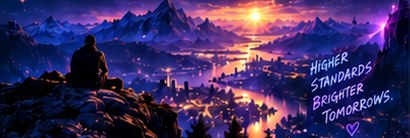
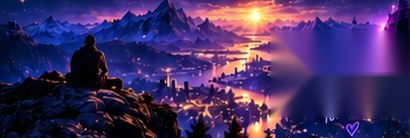
feat(site): rotating founder quotes and the founder emails the live sites already publish
- data/worlds.json: 8 quotes, all Juss's own lines (mockup, coder poster, profile README),
  paired with her handwritten notes; rotate every 7s with prev/next, pause on hover/focus,
  static under reduced motion
- contacts: founder@sekretbip.net + support@sekretbip.net (Bip app), hello@jussbeautifulhair.com
  (JBH pages; legal contact in the FCR, Bip and StoryEngine repos) for the company and the other
  worlds; FCR's review@ ingress deliberately not published
- assets: inpaint the baked note out of the quote scene; footer background is a lettering-free sky
  strip instead of the raw mockup footer (which bled fake buttons through)
- proof: quotes load from data, rotate, real email rendered

Claude-Session: https://claude.ai/code/session_01VXyVbFn32BsD1pLksuKgfY

Changed region(s): [[0.6439, 0.2029, 1.0, 0.8696]]

diff --git a/site/index.html b/site/index.html
@@ -195,6 +195,11 @@ h1,h2,h3{text-wrap:balance}
 .quote::after{content:"";position:absolute;inset:0;z-index:-1;background:linear-gradient(90deg,rgba(8,8,34,.9),rgba(8,8,34,.55) 55%,rgba(8,8,34,.75))}
 .quote blockquote{margin:0;font-family:var(--f-hand);font-weight:700;font-size:clamp(28px,2.6vw,38px);line-height:1.05;color:var(--gold-2);max-width:14ch;text-shadow:0 0 16px rgba(245,193,75,.35)}
 .quote cite{font-style:normal;font-family:var(--f-mono);font-size:10px;letter-spacing:.2em;color:var(--muted)}
+.quote.fade blockquote,.quote.fade .note{opacity:0;transform:translateY(6px)}
+.quote blockquote,.quote .note{transition:opacity .5s var(--ease),transform .5s var(--ease)}
+.qnav{position:absolute;left:16px;bottom:14px;display:flex;align-items:center;gap:10px;z-index:1}
+.qbtn{width:44px;height:44px;border-radius:50%;border:1px solid var(--line-hot);background:rgba(6,6,28,.6);color:#fff;font-size:22px;line-height:1;cursor:pointer}
+.qbtn:hover{border-color:var(--cyan)}
 .quote .note{position:static;transform:rotate(-6deg);align-self:flex-end;color:#FFB6EA;text-shadow:0 0 14px rgba(255,79,184,.5);font-size:22px;max-width:200px}
 .gains{list-style:none;margin:0;padding:0;display:grid;gap:12px}
 .gains li{display:grid;grid-template-columns:34px minmax(0,1fr);gap:10px;align-items:center}
@@ -218,8 +223,8 @@ h1,h2,h3{text-wrap:balance}
 /* ---- close ---- */
 .close{position:relative;isolation:isolate;overflow:hidden;padding-block:clamp(64px,8vw,110px) 28px}
 .close-bg{position:absolute;inset:0;z-index:-2}
-.close-bg img{width:100%;height:100%;object-fit:cover;object-position:50% 100%;opacity:.75}
-.close::before{content:"";position:absolute;inset:0;z-index:-1;background:linear-gradient(180deg,var(--void) 0%,rgba(6,6,28,.6) 35%,rgba(6,6,28,.85) 100%)}
+.close-bg img{width:100%;height:100%;object-fit:cover;object-position:50% 40%;opacity:.55;filter:saturate(1.15)}
+.close::before{content:"";position:absolute;inset:0;z-index:-1;background:linear-gradient(180deg,var(--void) 0%,rgba(6,6,28,.7) 30%,rgba(6,6,28,.9) 100%)}
 .close-grid{display:grid;grid-template-columns:minmax(0,1.1fr) minmax(0,1fr) minmax(0,1fr);gap:32px;align-items:start}
 .close h2{font-family:var(--f-serif);font-weight:800;font-size:clamp(34px,3.6vw,52px);line-height:1;color:var(--cream)}
 .close p{margin-top:12px;color:var(--muted);max-width:40ch;font-size:15px}
@@ -387,9 +392,10 @@ h1,h2,h3{text-wrap:balance}
       </div>
       <div class="panel quote">
         <img src="assets/proof-scene.jpg" alt="" loading="lazy" width="410" height="138">
-        <blockquote>"A thought is not a result. Proof is a different kind of power."</blockquote>
+        <blockquote id="qText">"A thought is not a result. Proof is a different kind of power."</blockquote>
         <cite>— Juss &amp; Co</cite>
-        <p class="note hand">higher standards.<br>brighter tomorrows.</p>
+        <p class="note hand" id="qNote">higher standards.<br>brighter tomorrows.</p>
+        <div class="qnav"><button type="button" class="qbtn" id="qPrev" aria-label="Previous quote">‹</button><span class="mono" id="qIdx">1 / 1</span><button type="button" class="qbtn" id="qNext" aria-label="Next quote">›</button></div>
       </div>
       <div class="panel">
         <ul class="gains">
@@ -430,7 +436,7 @@ h1,h2,h3{text-wrap:balance}
 
 <!-- ================= CLOSE ================= -->
 <section class="close wrap" id="contact" aria-labelledby="h-close">
-  <div class="close-bg"><img src="assets/footer-city.jpg" alt="" loading="lazy" width="1055" height="165"></div>
+  <div class="close-bg"><img src="assets/footer-sky.jpg" alt="" loading="lazy" width="1440" height="982"></div>
   <div class="in">
     <div class="close-grid">
       <div>
@@ -438,7 +444,7 @@ h1,h2,h3{text-wrap:balance}
         <p>Ideas, people and proof for a brighter tomorrow. Whether you want to collaborate, join a project, or just say hello, we'd love to hear from you.</p>
       </div>
       <div class="contact-col">
-        <div class="addr"><span id="mail">[CONTACT EMAIL]</span><button class="copy" type="button" id="copyBtn">Copy</button></div>
+        <div class="addr"><span id="mail">hello@jussbeautifulhair.com</span><button class="copy" type="button" id="copyBtn">Copy</button></div>
         <a class="btn btn-gold" href="https://github.com/jussray">Follow the builds <span aria-hidden="true">↗</span></a>
         <a class="btn btn-ghost" href="#worlds">Explore all worlds</a>
       </div>
@@ -530,9 +536,27 @@ h1,h2,h3{text-wrap:balance}
       if(L.st && L.label){ w.st=L.st; w.label=L.label; var b=cards[i].querySelector(".badge"); b.className="badge s-"+L.st; b.textContent=L.label; }
       if(L.link && L.link.url){ w.link=[L.link.text||"Open", L.link.url]; w.held=null; } else if(L.held){ w.held=L.held; w.link=null; }
     });
+    if(d.company && d.company.email) document.getElementById("mail").textContent = d.company.email;
+    if(d.quotes && d.quotes.length) setQuotes(d.quotes);
     var stamp=document.getElementById("liveStamp"); if(stamp && d.generatedAt) stamp.textContent="Status synced "+new Date(d.generatedAt).toUTCString().replace(/:\d\d GMT$/," UTC");
     if(current>=0){ var k=current; current=-1; open(k); }
   }).catch(function(){});
+  /* ---------- rotating founder quotes (data-driven, founder-declared) ---------- */
+  var QUOTES=[{text:"A thought is not a result. Proof is a different kind of power.",note:"higher standards.\nbrighter tomorrows."}], qi=0, qTimer=null, qPaused=false;
+  var qBox=document.querySelector(".quote");
+  function showQuote(i, animate){
+    qi=(i+QUOTES.length)%QUOTES.length; var q=QUOTES[qi];
+    function paint(){ document.getElementById("qText").textContent='"'+q.text+'"'; var n=document.getElementById("qNote"); n.innerHTML=""; String(q.note||"").split("\n").forEach(function(line,ix){ if(ix) n.appendChild(document.createElement("br")); n.appendChild(document.createTextNode(line)); }); document.getElementById("qIdx").textContent=(qi+1)+" / "+QUOTES.length; }
+    if(animate && !reduce){ qBox.classList.add("fade"); setTimeout(function(){ paint(); qBox.classList.remove("fade"); }, 420); } else paint();
+  }
+  function setQuotes(list){ QUOTES=list; showQuote(0,false); startQuotes(); }
+  function startQuotes(){ if(qTimer) clearInterval(qTimer); if(reduce || QUOTES.length<2) return; qTimer=setInterval(function(){ if(!qPaused) showQuote(qi+1,true); }, 7000); }
+  document.getElementById("qNext").addEventListener("click",function(){ showQuote(qi+1,true); startQuotes(); });
+  document.getElementById("qPrev").addEventListener("click",function(){ showQuote(qi-1,true); startQuotes(); });
+  qBox.addEventListener("mouseenter",function(){ qPaused=true; }); qBox.addEventListener("mouseleave",function(){ qPaused=false; });
+  qBox.addEventListener("focusin",function(){ qPaused=true; }); qBox.addEventListener("focusout",function(){ qPaused=false; });
+  window.JC = { nextQuote:function(){ showQuote(qi+1,false); }, quoteIndex:function(){ return qi; }, quoteCount:function(){ return QUOTES.length; } };
+  showQuote(0,false);
   function evidenceRows(L){
     var rows=[]; if(!L || !L.evidence) return rows; var e=L.evidence;
     if(e.mainSha) rows.push(["Main", e.mainSha.slice(0,7)+(e.mainDate?" · "+e.mainDate.slice(0,10):"")]);
